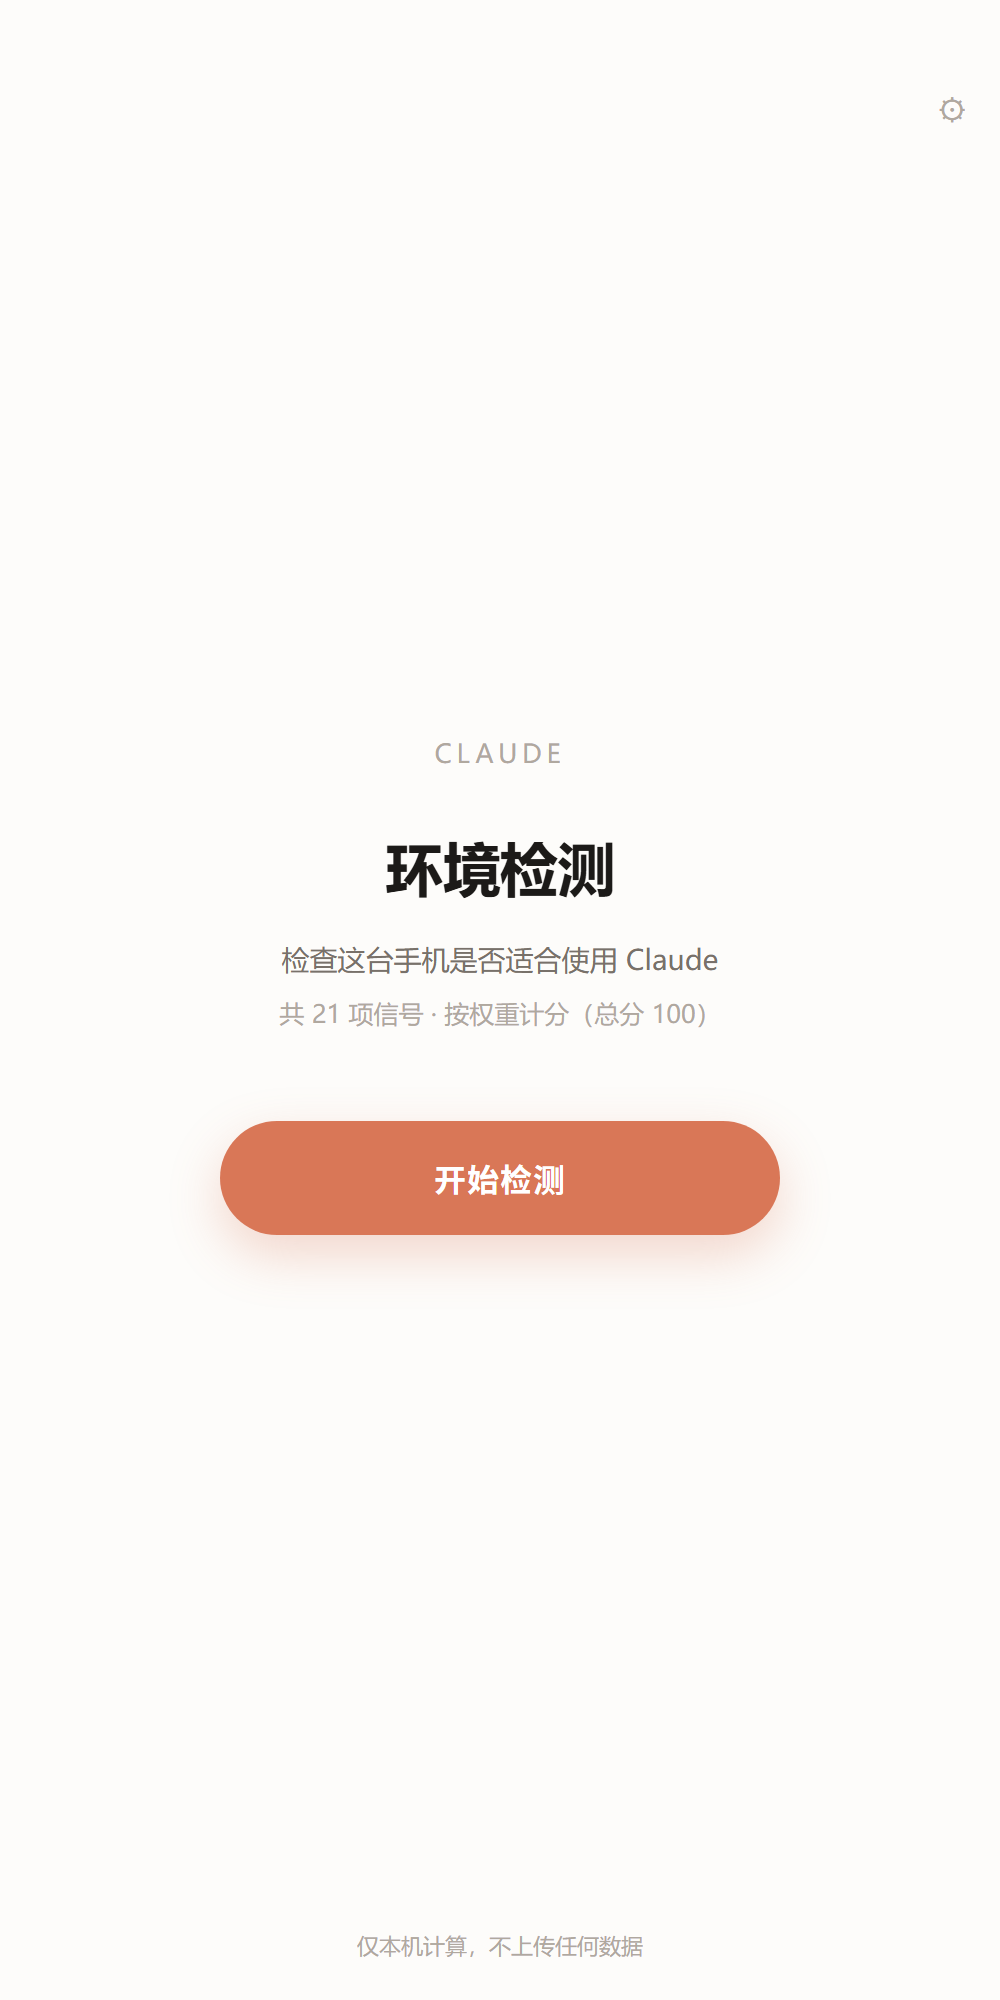
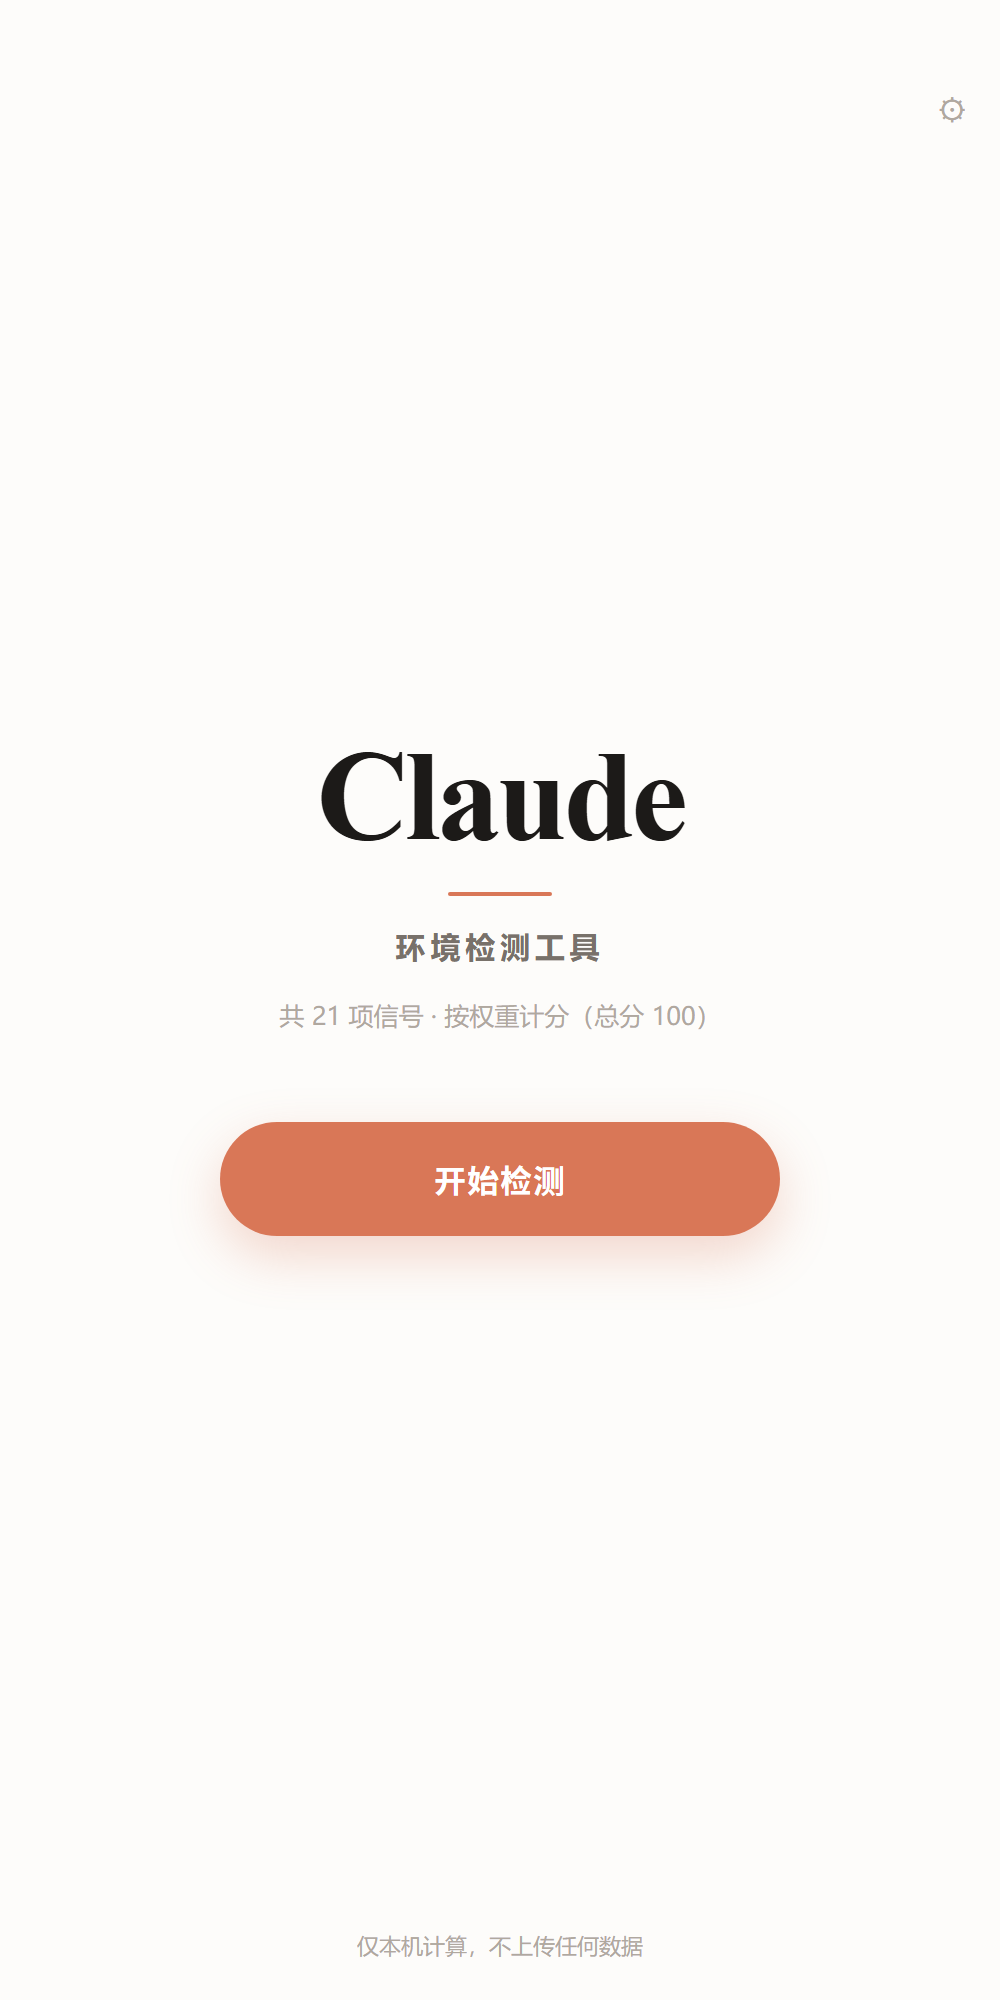
feat: 首页改版与交互流畅度优化
名称改为 Claude 环境检测工具（四语言同步），首页以 Claude 大字为主视觉，
移除「检查这台手机是否适合使用 Claude」的表述。

修复点击后长时间卡顿的根因：原生 HTTP 原为同步调用，网络请求直接阻塞
WebView 渲染线程。改为子线程请求 + JS 回调（httpGetAsync），并配合骨架预铺、
按钮按压反馈、标题吸顶，实测点击后 0.5 秒内 21 行全部呈现。

Changed region(s): [[0.279, 0.372, 0.713, 0.527], [0.465, 0.589, 0.527, 0.62]]

diff --git a/app/index.html b/app/index.html
@@ -24,10 +24,25 @@ body{background:var(--bg);color:var(--ink);
 .view.on{opacity:1;pointer-events:auto;transform:none}
 
 #v-home{justify-content:center;align-items:center;text-align:center}
-.brand{font-size:13px;letter-spacing:.18em;color:var(--ink3);margin-bottom:26px}
-.home-title{font-size:29px;font-weight:700;letter-spacing:-.4px}
-.home-sub{font-size:14px;color:var(--ink2);margin-top:12px;line-height:1.7}
-.home-meta{font-size:12.5px;color:var(--ink3);margin-top:6px}
+.hero{display:flex;flex-direction:column;align-items:center;margin-bottom:6px}
+.hero-word{
+  font-family:"Times New Roman",Georgia,"Songti SC",serif;
+  font-size:64px;font-weight:600;letter-spacing:-2px;line-height:1;
+  color:var(--ink);opacity:0;transform:translateY(14px) scale(.96);
+  animation:heroIn .85s cubic-bezier(.2,.9,.25,1) .05s forwards;
+}
+.hero-line{
+  width:0;height:2px;background:var(--accent);border-radius:2px;margin:16px 0 14px;
+  animation:lineIn .7s cubic-bezier(.2,.9,.25,1) .5s forwards;
+}
+@keyframes heroIn{to{opacity:1;transform:none}}
+@keyframes lineIn{to{width:52px}}
+.home-title{
+  font-size:15px;font-weight:600;letter-spacing:.16em;color:var(--ink2);
+  opacity:0;animation:fadeUp .6s ease .65s forwards;
+}
+@keyframes fadeUp{from{opacity:0;transform:translateY(6px)}to{opacity:1;transform:none}}
+.home-meta{font-size:12.5px;color:var(--ink3);margin-top:8px;opacity:0;animation:fadeUp .6s ease .75s forwards}
 .gear{position:absolute;top:34px;right:4px;width:40px;height:40px;z-index:5;
   border:none;background:transparent;color:var(--ink3);font-size:17px}
 .ksheet{position:fixed;left:0;right:0;bottom:0;z-index:60;background:var(--card);
@@ -51,12 +66,29 @@ body{background:var(--bg);color:var(--ink);
 .lang-opts button.on{background:var(--accent);border-color:var(--accent);color:#fff;font-weight:600}
 .start{margin-top:44px;width:100%;max-width:280px;padding:17px;border:none;border-radius:99px;
   background:var(--accent);color:#fff;font-size:16px;font-weight:600;letter-spacing:.5px;
-  box-shadow:0 10px 26px rgba(217,119,87,.28);transition:transform .15s}
-.start:active{transform:scale(.97)}
+  box-shadow:0 10px 26px rgba(217,119,87,.28);
+  opacity:0;
+  transition:transform .18s cubic-bezier(.2,.9,.25,1),box-shadow .25s,background .2s;
+  animation:fadeUp .6s ease .85s forwards}
+.start:active{transform:scale(.96);box-shadow:0 4px 12px rgba(217,119,87,.22)}
+.start.press{transform:scale(.94);background:#cd6a4c;box-shadow:0 3px 10px rgba(217,119,87,.2)}
+.home-foot{opacity:0;animation:fadeUp .6s ease 1s forwards}
+/* 尊重系统的"减少动态效果"设置，同时让截图与低性能设备直接显示 */
+@media (prefers-reduced-motion: reduce){
+  .hero-word,.home-title,.home-meta,.start,.home-foot{opacity:1!important;transform:none!important;animation:none!important}
+  .hero-line{animation:none!important;width:52px!important}
+  .view{transition:none!important}
+  .row.new{animation:none!important}
+}
+
 .home-foot{position:absolute;bottom:calc(env(safe-area-inset-bottom) + 18px);left:0;right:0;text-align:center;
   font-size:11px;color:var(--ink3);line-height:1.7}
 
 #v-scan{padding-top:calc(env(safe-area-inset-top) + 18px)}
+/* 标题与进度条吸顶，滚动时始终可见 */
+#v-scan .scan-top{position:sticky;top:0;z-index:3;background:var(--bg);
+  padding-top:6px;margin-top:-6px}
+#v-scan .bar{position:sticky;top:38px;z-index:3;background:var(--bg);padding:6px 0 8px;margin-bottom:12px}
 .scan-top{display:flex;align-items:baseline;justify-content:space-between;margin-bottom:14px}
 .scan-top h2{font-size:20px;font-weight:700}
 .scan-top b{font-size:13px;color:var(--ink2);font-weight:500;font-variant-numeric:tabular-nums}
@@ -143,10 +175,12 @@ body{background:var(--bg);color:var(--ink);
 <div id="app">
 
   <section class="view on" id="v-home">
-    <div class="brand">CLAUDE</div>
-    <div class="home-title" id="tTitle">环境检测</div>
-    <div class="home-sub" id="tHomeSub">检查这台手机是否适合使用 Claude</div>
-    <div class="home-meta" id="homeMeta">共 19 项信号 · 逐项打分</div>
+    <div class="hero">
+      <div class="hero-word">Claude</div>
+      <div class="hero-line"></div>
+      <div class="home-title" id="tTitle">环境检测工具</div>
+    </div>
+    <div class="home-meta" id="homeMeta"></div>
     <button class="start" id="btnStart">开始检测</button>
     <button class="gear" id="btnKey" aria-label="设置">⚙</button>
     <div class="home-foot" id="tPrivacy">仅本机计算，不上传任何数据</div>
@@ -215,6 +249,8 @@ body{background:var(--bg);color:var(--ink);
 
 <script>
 const $=id=>document.getElementById(id);
+window.onerror=function(m,src,l,c,e){ console.log('[JS-ERR] '+m+' @line '+l+' '+(e&&e.stack?e.stack:'')); };
+window.addEventListener('unhandledrejection',function(ev){ console.log('[JS-REJ] '+(ev.reason&&ev.reason.message||ev.reason)); });
 const CIRC=552.9; // 2πr, r=88
 
 /* ===================== 原生读取 ===================== */
@@ -271,7 +307,7 @@ let LANG = detectLang();
 
 const I18N = {
 'zh-CN':{
-  appName:'环境检测',
+  appName:'Claude 环境检测工具',
   homeSub:'检查这台手机是否适合使用 Claude',
   homeMeta:(n,m)=>`共 ${n} 项信号 · 按权重计分（总分 ${m}）`,
   start:'开始检测',
@@ -296,6 +332,7 @@ const I18N = {
   langTitle:'语言',
   pending:(n)=>`${n} 项待改进`, allPass:'全部达标',
   scScoreLbl:'得分', scWeightLbl:'权重',
+  homeTitle:'环境检测工具',
   v:{ok:'可以放心使用',warn:'有一定风险',bad:'不建议使用',stop:'请不要使用'},
   d:{
     veto:(n)=>`有 ${n} 项是硬性不过关。不是扣几分的事：只要踩中一条，注册和使用都会被判成不支持地区，充了钱也白搭。`,
@@ -453,7 +490,7 @@ const I18N = {
   }
 },
 'zh-TW':{
-  appName:'環境檢測',
+  appName:'Claude 環境檢測工具',
   homeSub:'檢查這台手機是否適合使用 Claude',
   homeMeta:(n,m)=>`共 ${n} 項訊號 · 依權重計分（總分 ${m}）`,
   start:'開始檢測',
@@ -478,6 +515,7 @@ const I18N = {
   langTitle:'語言',
   pending:(n)=>`${n} 項待改進`, allPass:'全部達標',
   scScoreLbl:'得分', scWeightLbl:'權重',
+  homeTitle:'環境檢測工具',
   v:{ok:'可以放心使用',warn:'有一定風險',bad:'不建議使用',stop:'請不要使用'},
   d:{
     veto:(n)=>`有 ${n} 項是硬性不過關。不是扣幾分的事：只要踩中一條，註冊和使用都會被判成不支援地區，儲值了也白費。`,
@@ -548,7 +586,7 @@ const I18N = {
   }
 },
 'en':{
-  appName:'Environment Check',
+  appName:'Claude Environment Checker',
   homeSub:'Check whether this phone is safe for Claude',
   homeMeta:(n,m)=>`${n} signals · weighted score (max ${m})`,
   start:'Start check',
@@ -573,6 +611,7 @@ const I18N = {
   langTitle:'Language',
   pending:(n)=>`${n} to improve`, allPass:'All good',
   scScoreLbl:'Score', scWeightLbl:'weight',
+  homeTitle:'Environment Checker',
   v:{ok:'Safe to use',warn:'Some risk',bad:'Not recommended',stop:'Do not use'},
   d:{
     veto:(n)=>`${n} blocking issue(s). This is not about losing points — any single one of them marks the account as coming from an unsupported region. Signing up or paying will not help.`,
@@ -686,7 +725,7 @@ const I18N = {
   }
 },
 'ja':{
-  appName:'環境チェック',
+  appName:'Claude 環境チェッカー',
   homeSub:'この端末が Claude に適しているか確認します',
   homeMeta:(n,m)=>`全 ${n} 項目 · 重み付き採点（満点 ${m}）`,
   start:'チェック開始',
@@ -711,6 +750,7 @@ const I18N = {
   langTitle:'言語',
   pending:(n)=>`${n} 項目に改善点`, allPass:'すべて良好',
   scScoreLbl:'得点', scWeightLbl:'重み',
+  homeTitle:'環境チェッカー',
   v:{ok:'安心して使えます',warn:'やや危険',bad:'おすすめしません',stop:'使用しないでください'},
   d:{
     veto:(n)=>`${n} 件が致命的です。点数の問題ではありません。1 つでも該当すると、非対応地域からの利用と判定され、登録も支払いも無駄になります。`,
@@ -868,16 +908,30 @@ const HOME_KW=['telecom','unicom','mobile','broadband','fiber','fibre','cable','
 'at&t','charter','cox','centurylink','frontier','windstream','virgin','optimum','residential','home',
 'chinanet','cnc','cmcc','telefonica','orange','swisscom','kddi','ntt','singtel','starhub'];
 
+/* 原生 HTTP 回调登记表：Java 在子线程取完数据后回调这里 */
+const httpWaiters={}; let httpSeq=0;
+window.__nativeHttp=function(id, body){
+  const cb=httpWaiters[id];
+  if(cb){ delete httpWaiters[id]; cb(body||''); }
+};
+/* 走原生异步通道，避免阻塞渲染线程（同步调用会让点击后卡住好几秒） */
+function nativeGet(url){
+  return new Promise(resolve=>{
+    if(!(window.Native && window.Native.httpGetAsync)) return resolve(null);
+    const id='h'+(++httpSeq);
+    httpWaiters[id]=resolve;
+    try{ window.Native.httpGetAsync(url, id); }
+    catch(e){ delete httpWaiters[id]; return resolve(null); }
+    setTimeout(()=>{ if(httpWaiters[id]){ delete httpWaiters[id]; resolve(''); } }, 9000);
+  });
+}
 /* 原生优先的 HTTP：原生层不受跨域限制，可用不支持 CORS 的情报接口 */
-function netGet(url){
-  try{
-    if(window.Native && window.Native.httpGet){
-      const body=window.Native.httpGet(url);
-      console.log('[NET] '+url.slice(8,42)+' len='+(body?body.length:0));
-      if(body) return Promise.resolve(JSON.parse(body));
-    }
-  }catch(e){}
-  return fetchJSON(url);
+async function netGet(url){
+  const body=await nativeGet(url);
+  if(body===null) return fetchJSON(url);   // 网页版没有原生桥，退回 fetch
+  console.log('[NET] '+url.slice(8,42)+' len='+(body?body.length:0));
+  if(!body) return null;
+  try{ return JSON.parse(body); }catch(e){ return null; }
 }
 
 /* 每次检测前重置，避免沿用上一次的结论 */
@@ -1248,6 +1302,16 @@ function webrtcProbe(){
   });
 }
 const sleep=ms=>new Promise(r=>setTimeout(r,ms));
+/* 等一帧渲染完成，用来让动画先上屏再干重活。
+   WebView 里 rAF 偶发不触发，必须带超时兜底，否则整个流程会卡住 */
+const nextFrame=(ms)=>{
+  return new Promise(r=>{
+    let done=false;
+    const fin=()=>{ if(!done){ done=true; r(); } };
+    try{ requestAnimationFrame(()=>requestAnimationFrame(fin)); }catch(e){}
+    setTimeout(fin, ms||120);
+  });
+};
 const fmtNum=n=>{ const v=Math.round(n*10)/10; return Number.isInteger(v)?String(v):v.toFixed(1); };
 const lvOf=p=>p>=8?'ok':p>=5?'wa':'bd';
 const CLS={ok:'c-ok',wa:'c-wa',bd:'c-bd'};
@@ -1262,8 +1326,7 @@ function applyLang(){
   const set=(id,val)=>{ const el=$(id); if(el) el.textContent=val; };
   document.documentElement.lang = LANG;
   document.title = l.appName;
-  set('tHomeSub',l.homeSub);
-  set('tTitle',l.appName);
+  set('tTitle',l.homeTitle);
   set('btnStart',l.start);
   set('tPrivacy',l.privacy);
   set('tScanning',l.scanning);
@@ -1329,22 +1392,45 @@ async function scan(){
   $('scanCount').textContent='0 / '+TOTAL;
   $('scanBar').style.width='0%';
   $('vetoBox').innerHTML='';
-  intelPromise=loadIPIntel();   // 并行预取，节省总耗时
+
+  // 先把空页面画出来，视觉上零延迟
   show('v-scan');
+  await nextFrame();
 
   const rowsEl=$('rows');
+
+  // 预先把所有行骨架铺好，动画从头就顺
+  const rowRefs=[];
+  try{
+  CHECKS.forEach(c=>{
+    const t=itemText(c.key);
+    const row=document.createElement('div');
+    row.className='row';
+    row.innerHTML='<span class="st"><span class="ring-s"></span></span>'+
+                  '<span class="nm">'+esc(t.n)+'</span><span class="vl">'+esc(L().scanning)+'</span>';
+    rowsEl.appendChild(row);
+    rowRefs.push(row);
+  });
+  }catch(err){ console.log('[SKEL-ERR] '+err); }
+  console.log('[SKEL] rows='+rowRefs.length+' lang='+LANG);
+
+  // 网络预取放在骨架绘制之后，避免阻塞首帧
+  intelPromise=loadIPIntel();
+  await nextFrame();
 
   for(let i=0;i<CHECKS.length;i++){
     const c=CHECKS[i];
     const t=itemText(c.key);
-    const row=document.createElement('div');
-    row.className='row new';
-    row.innerHTML='<span class="st"><span class="ring-s"></span></span>'+
-                  '<span class="nm">'+esc(t.n)+'</span><span class="vl">'+esc(L().scanning)+'</span>';
-    rowsEl.appendChild(row);
-    // 只滚动扫描容器本身，避免滚动惯性带到结果页
+    const row=rowRefs[i];
+    row.classList.add('new');
+    // 逐行显现：让整页有节奏地铺开，而不是一瞬间全亮
+    row.style.animationDelay='0ms';
+    // 只在当前行即将离开视口时才滚动，避免一上来就滚到底
     const sv=$('v-scan');
-    sv.scrollTop=sv.scrollHeight;
+    const rb=row.getBoundingClientRect(), sb=sv.getBoundingClientRect();
+    if(rb.bottom > sb.bottom - 8){
+      sv.scrollTop += Math.min(rb.bottom - sb.bottom + 24, 90);
+    }
 
     const t0=Date.now();
     let r;
@@ -1478,8 +1564,17 @@ window.appBack=function(){
 applyLang();
 
 /* ===================== 事件 ===================== */
-$('btnStart').onclick=()=>scan();
-$('btnAgain').onclick=()=>scan();
+function startWithFeedback(btn){
+  if(btn.dataset.busy) return;
+  btn.dataset.busy='1';
+  btn.classList.add('press');
+  setTimeout(()=>{
+    btn.classList.remove('press');
+    scan().finally(()=>{ delete btn.dataset.busy; });
+  },140);
+}
+$('btnStart').onclick=()=>startWithFeedback($('btnStart'));
+$('btnAgain').onclick=()=>startWithFeedback($('btnAgain'));
 $('openDetail').onclick=()=>{buildDetail();show('v-detail');};
 $('back').onclick=()=>show('v-result');
 $('mask').onclick=closeSheet;

diff --git a/android/app/src/com/claudedoctor/MainActivity.java b/android/app/src/com/claudedoctor/MainActivity.java
@@ -213,8 +213,32 @@ public class MainActivity extends Activity {
          * 原生 HTTP 请求：只允许白名单域名。
          * 走原生可以绕开 WebView 的跨域限制，从而使用不支持 CORS 的情报接口。
          */
+        /** 异步取数：在子线程发请求，完成后把结果回调给 JS，绝不阻塞渲染线程 */
+        @JavascriptInterface
+        public void httpGetAsync(final String url, final String cbId) {
+            new Thread(new Runnable() {
+                @Override
+                public void run() {
+                    final String body = doHttpGet(url);
+                    final String js = "window.__nativeHttp&&window.__nativeHttp("
+                            + JSONObject.quote(cbId) + "," + JSONObject.quote(body) + ")";
+                    runOnUiThread(new Runnable() {
+                        @Override
+                        public void run() {
+                            try { web.evaluateJavascript(js, null); } catch (Throwable ignored) { }
+                        }
+                    });
+                }
+            }).start();
+        }
+
+        /** 同步版本，保留给必须同步的场景；JS 侧默认走 async */
         @JavascriptInterface
         public String httpGet(String url) {
+            return doHttpGet(url);
+        }
+
+        private String doHttpGet(String url) {
             final String[] hosts = {"ip-api.com", "ipwho.is", "proxycheck.io",
                     "api.iplocation.net", "api64.ipify.org", "ipapi.co"};
             try {
@@ -227,7 +251,6 @@ public class MainActivity extends Activity {
                     }
                 }
                 if (!allowed) return "";
-
                 java.net.HttpURLConnection c = (java.net.HttpURLConnection) u.toURL().openConnection();
                 c.setConnectTimeout(6000);
                 c.setReadTimeout(6000);
